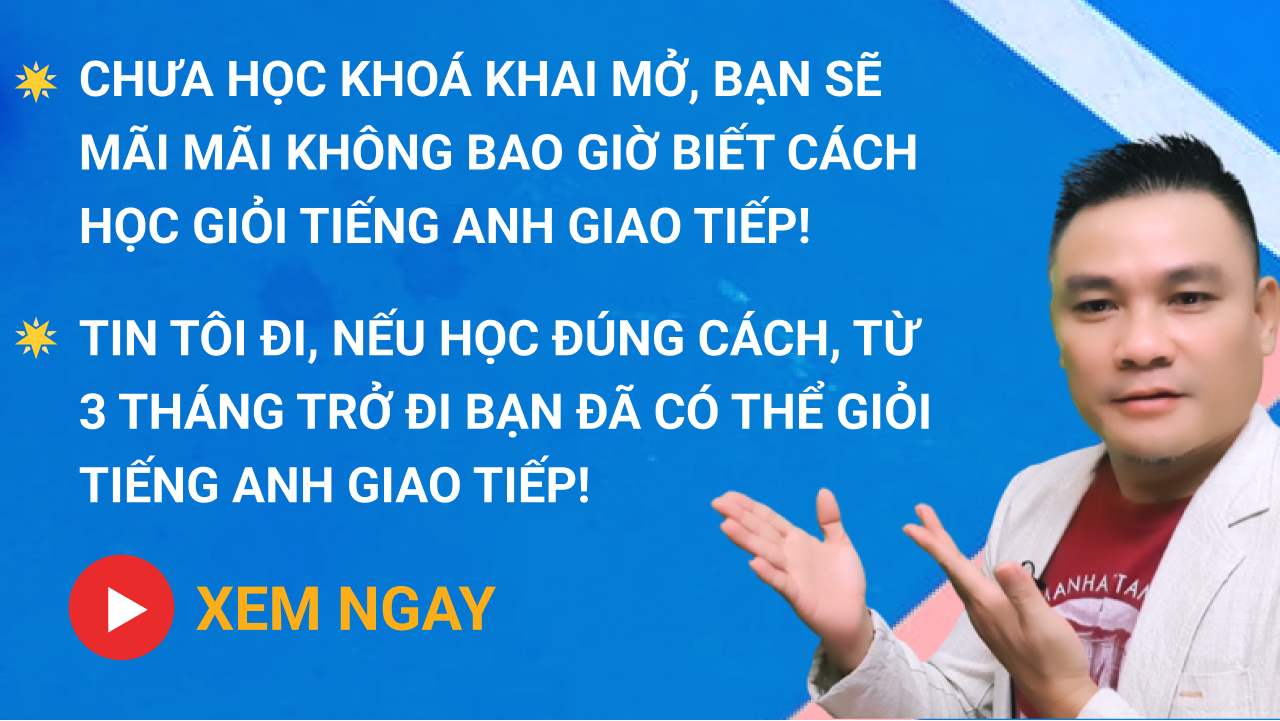
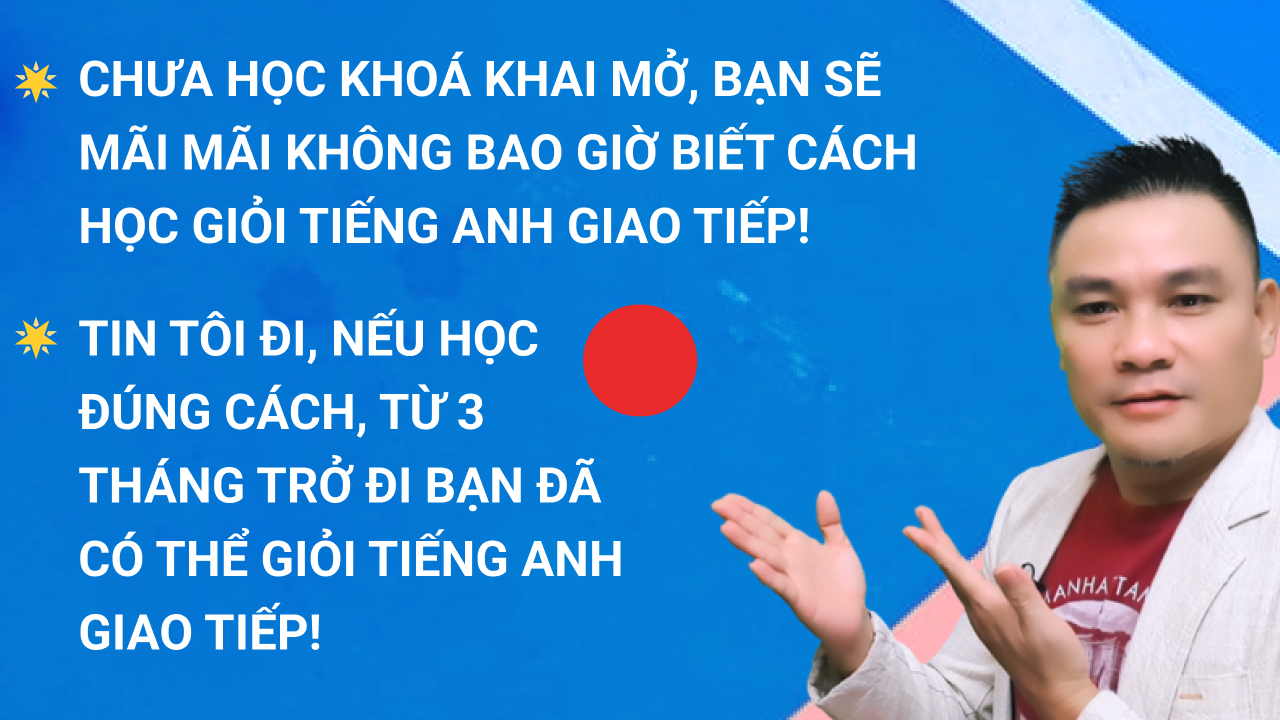
update video

diff --git a/index.html b/index.html
@@ -110,9 +110,9 @@
                 </h2>
                 <div class="video-wrap">
                     <span class="play-icon">
-                        <i class="fa-solid fa-arrow-pointer fa-bounce"></i>
+                        <i class="fa-solid fa-play fa-beat"></i>
                     </span>
-                    <video id="video" poster= "./assets/img/video-thumb-3.png">
+                    <video id="video" poster= "./assets/img/video-thumb-3.webp">
                     <source src="https://static.langkingdom.com/webinars/videos/Landing-page-2-Buoi-Hoc.mp4" type="video/mp4">
                     </video>
                 </div>
@@ -128,8 +128,8 @@
             <h2 class="km-heading text-center">
                 BẠN CẦN PHẢI THAM GIA KHOÁ HỌC KHAI MỞ NÀY?
             </h2>
-            <p class="km-text text-center pd10">
-                <span class="text-primary">CHỈ KHI NÀO BẠN MUỐN BIẾT CÁCH HỌC GIỎI TIẾNG ANH GIAO TIẾP NHANH NHẤT, DỄ DÀNG NHẤT, BẬN RỘN NHẤT VẪN HỌC GIỎI ĐƯỢC, THÌ BẠN CẦN PHẢI THAM GIA KHOÁ HỌC NÀY!</span>
+            <p class="km-text big-text pd10">
+                CHỈ KHI NÀO bạn muốn biết cách giỏi tiếng anh nhanh nhất, dễ dàng nhất, bận rộn nhất vẫn học giỏi được, thì bạn cần phải tham gia khóa học này!
             </p>
             <div class="section-content">
                 <ul class="column-2">

diff --git a/assets/27-06.css b/assets/27-06.css
@@ -253,29 +253,28 @@ ul.column-2 {
 .play-icon {
   display: block;
   color: rgb(235, 235, 235);
-  font-size: clamp(20px, 20px + 1.5vw, 50px);
+  font-size: clamp(16px, 14px + 1.5vw, 50px);
   position: absolute;
-  bottom: -15px;
-  left: 11%;
-  /* transform: translate(-50%, -50%); */
+  top: 50%;
+  left: 50%;
+  transform: translate(-50%, -50%);
   cursor: pointer;
-  /* z-index: 1; */
-  isolation: isolate;
 }
 
-/* .play-icon:before {
+.play-icon:before {
   content: '';
-  position: absolute;
-  width:100%;
-  height:100%;
-  border: 2px solid #fff;
+  width:400%;
+  height:190%;
+  /* border: 2px solid #fff; */
   border-radius:50%;
-  top: 0;
-  left:0;
-  transform-origin: center;
-  animation: playbtnScale 1s ease-in-out infinite;
-  z-index: -10;
-} */
+  background-color: rgba(255, 0, 0, 0.402);
+  position: absolute;
+  top: -45%;
+  left: -149%;
+  transform: translate(-50%, -50%);
+  animation: beat2 2s ease-in-out infinite;
+  z-index: -1;
+}
 
 @keyframes playbtnScale {
   from {
@@ -290,8 +289,13 @@ ul.column-2 {
 }
 
 @keyframes beat {
+  0%, 100% { transform: scale(1, 1); }
+  50% { transform: scale(0.98, 0.98); }
+}
+
+@keyframes beat2 {
   0%, 50%, 100% { transform: scale(1, 1); }
-  30%, 80% { transform: scale(0.98, 0.98); }
+  30%, 80% { transform: scale(0.90, 0.90); }
 }
 
 /* =========================================
